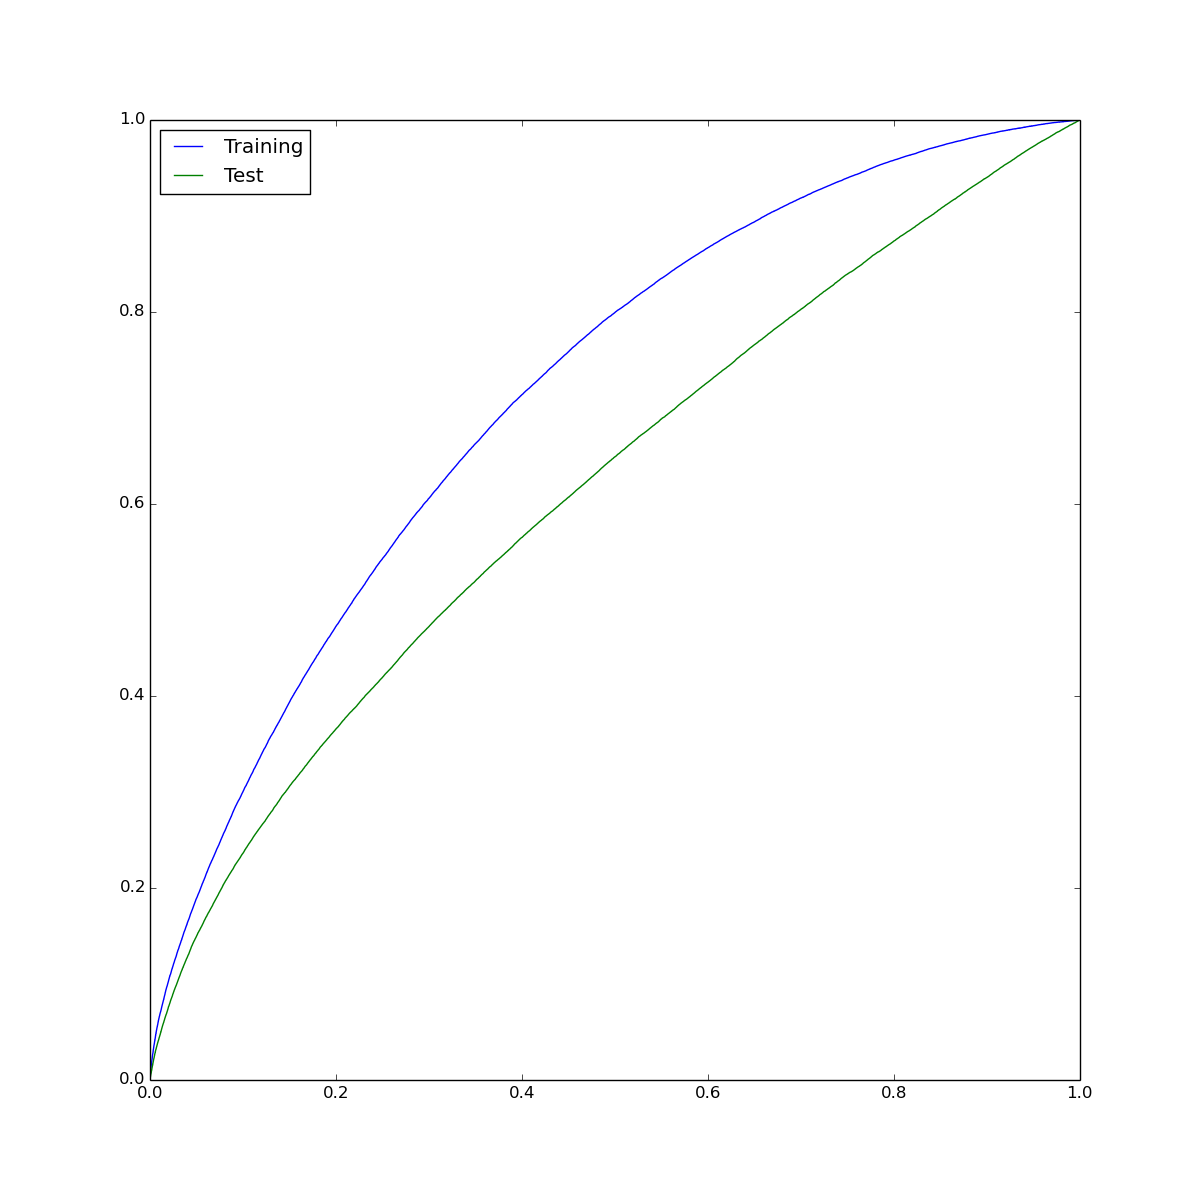
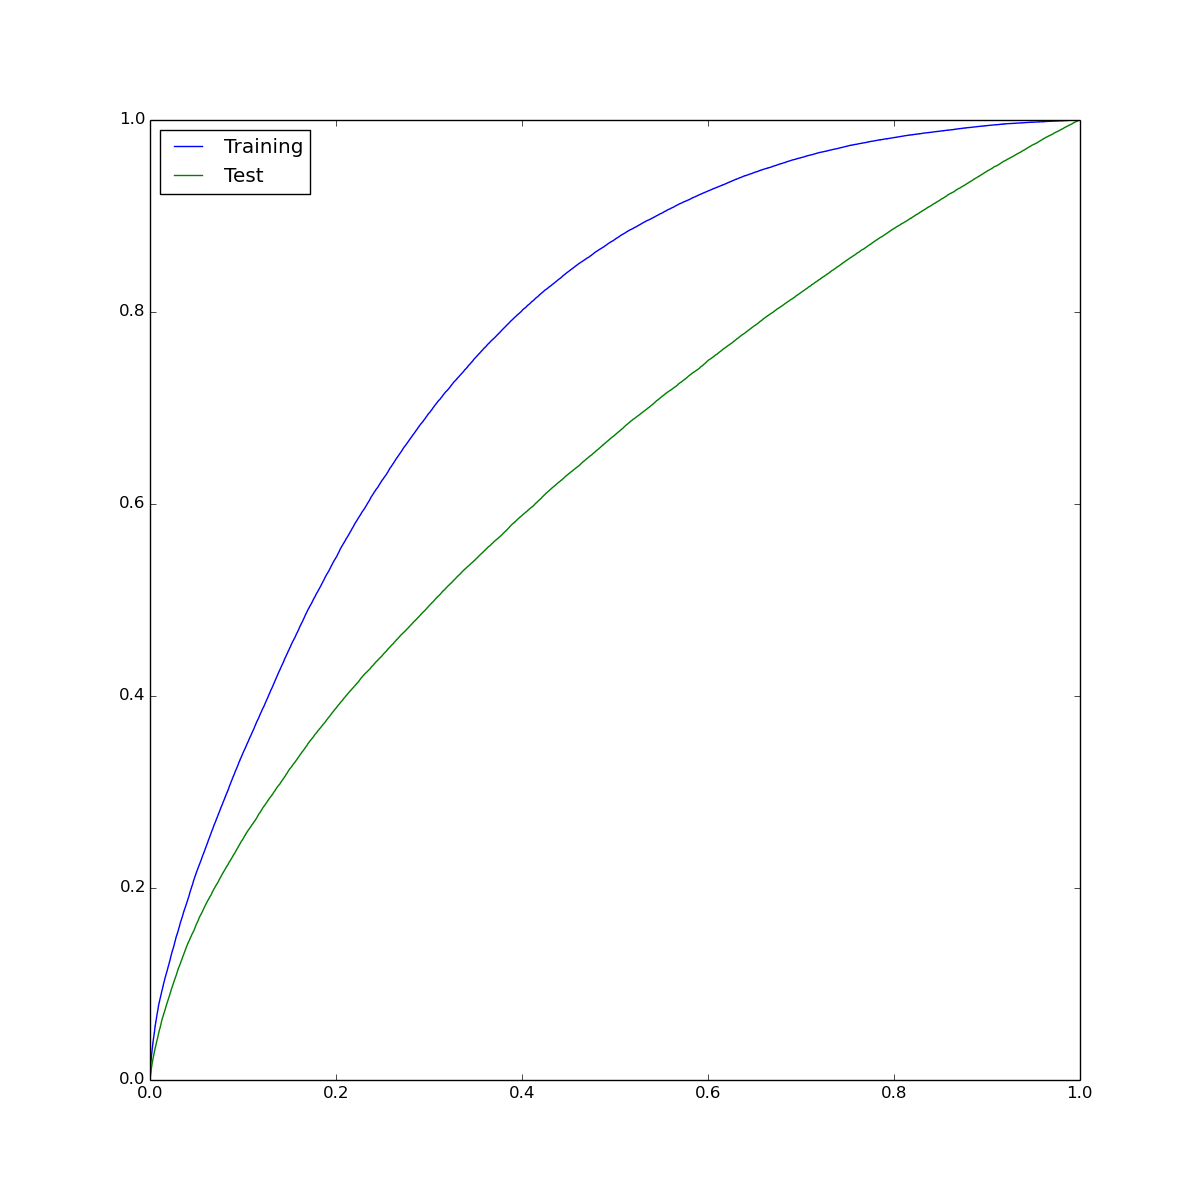
upload

diff --git a/ensemble.md b/ensemble.md
@@ -4,15 +4,19 @@
 
 | Dataset | AUC | Accuracy | Precision@5k|
 | :--- | :--- | :--- | :--- | :--- |
-| Training | 0.71671 | 0.74782 | 0.74720 |
-| Test | 0.61634 | 0.73917 | 0.64220 |
+| Training | 0.76732 | 0.75199 | 0.81020 |
+| Test | 0.63303 | 0.74199 | 0.67960 |
 
 
 #Feature ranking:
 
 ![](importances.png?raw=true)
 
-1. Chmel_Tolstiy-1001180|A-1639114-No-compiler-OK.csv (0.680270)
+1. Chmel_Tolstiy-1001180|A-1639114-No-compiler-OK.csv (0.473165)
 
-2. justHeuristic-989496|A-1639435-No-compiler-OK.csv (0.319730)
+2. justHeuristic-989496|A-1639435-No-compiler-OK.csv (0.186474)
+
+3. _OriginalFeature_lon (0.172329)
+
+4. _OriginalFeature_lat (0.168032)
 

diff --git a/table.md b/table.md
@@ -1,4 +1,6 @@
 | Author | Submission | Contribution Score |
 | :---:  | :---: | ---: |
-| justHeuristic-989496|A-1639435-No-compiler-OK.csv | 680 269 694 |
-| Chmel_Tolstiy-1001180|A-1639114-No-compiler-OK.csv | 319 730 305 |
+| justHeuristic-989496|A-1639435-No-compiler-OK.csv | 473 164 773 |
+| Chmel_Tolstiy-1001180|A-1639114-No-compiler-OK.csv | 186 473 932 |
+| _OriginalFeature_lon | 172 328 933 |
+| _OriginalFeature_lat | 168 032 360 |
